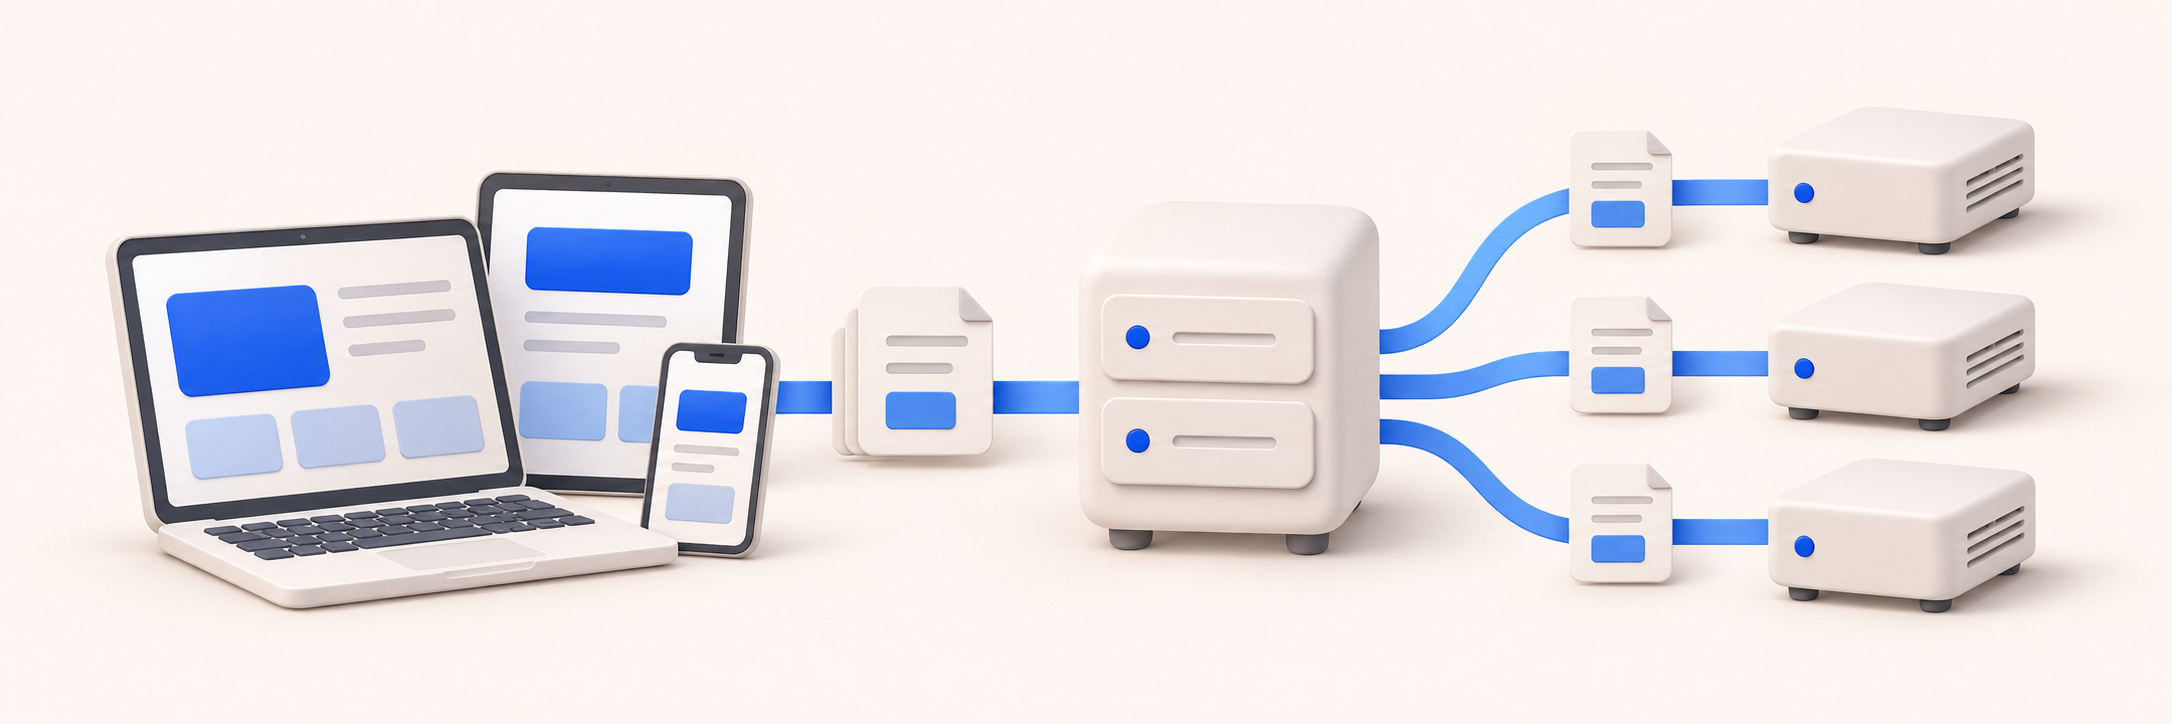
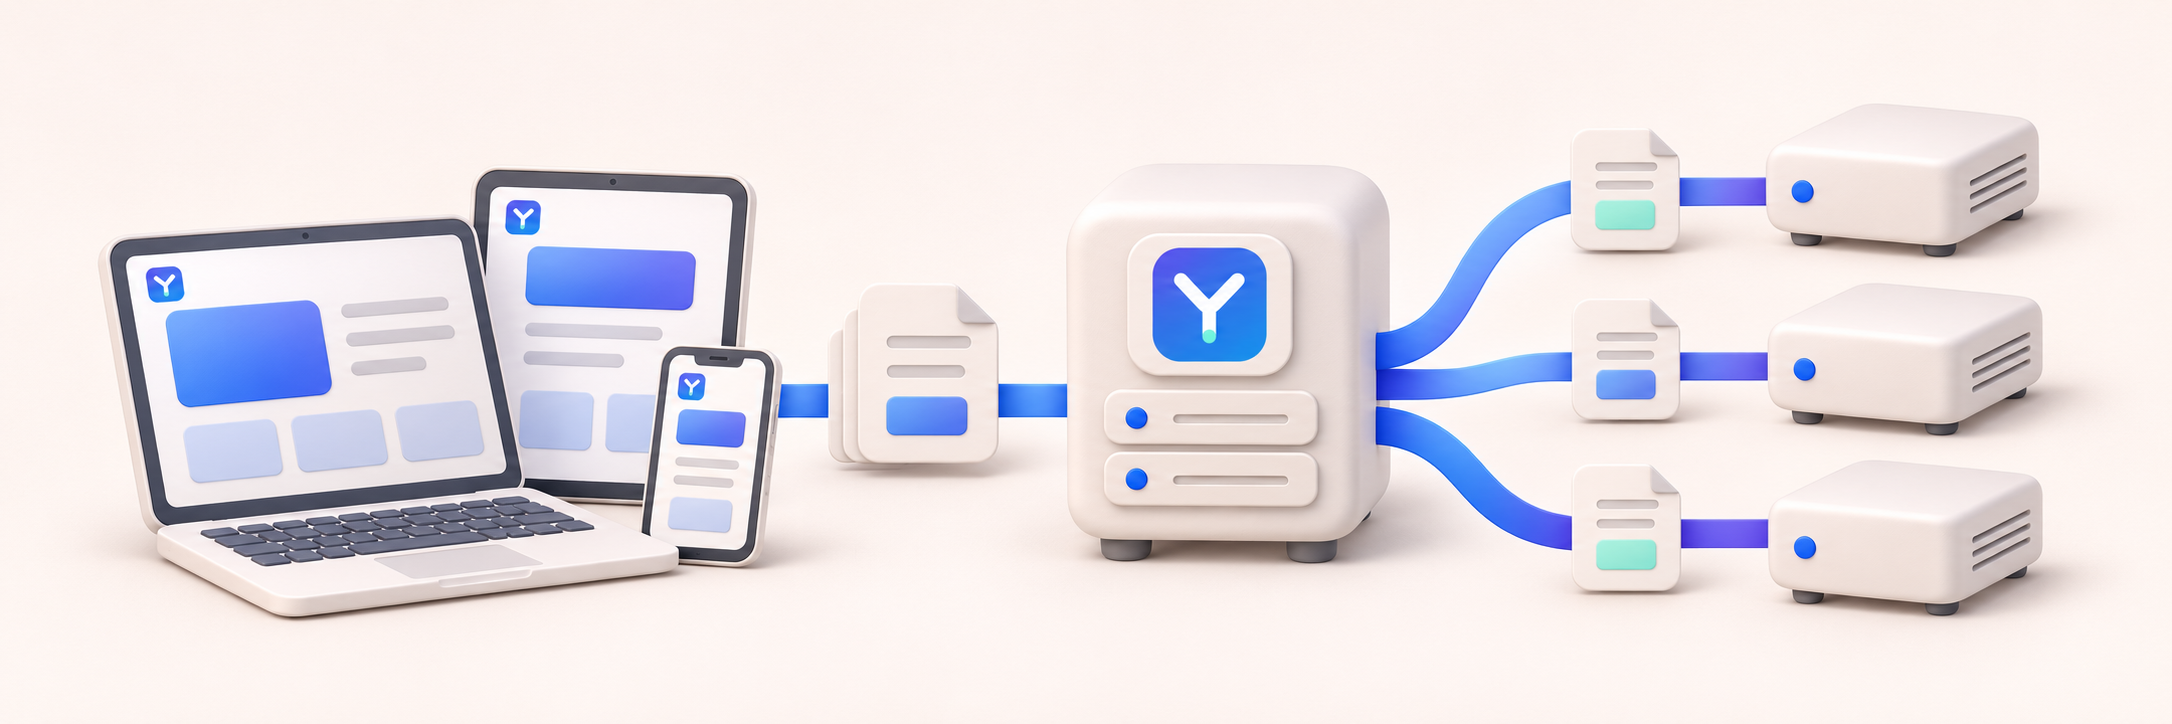
docs: refresh Yulor imagery and finish managed launcher compatibility

diff --git a/docs/diagrams/architecture.html b/docs/diagrams/architecture.html
@@ -4,7 +4,7 @@
   <meta charset="UTF-8">
   <meta name="viewport" content="width=device-width, initial-scale=1.0">
   <meta name="generator" content="archify 2.17.0-dev.1">
-  <title>LMC — Self-Hosted Agent Workspace Diagram</title>
+  <title>Yulor — Self-Hosted Agent Workspace Diagram</title>
   <script>
     // Resolve the theme before first paint so light-preference users don't
     // see a dark flash. The toolbar script below re-applies with UI state.
@@ -5081,7 +5081,7 @@ OTHER DEALINGS IN THE FONT SOFTWARE.
            data-preset-badge-blueprint="BLUEPRINT / REV 01"
            data-preset-badge-editorial="EDITORIAL / FIELD NOTE">
         <div class="pulse-dot"></div>
-        <h1>LMC — Self-Hosted Agent Workspace</h1>
+        <h1>Yulor — Self-Hosted Agent Workspace</h1>
       </div>
     </div>
 
@@ -5131,7 +5131,7 @@ OTHER DEALINGS IN THE FONT SOFTWARE.
     <div class="diagram-container" data-detail-level="read"
          data-preset-badge-editorial-plate="ARCHIFY / PLATE 04">
       <svg viewBox="0 0 1000 500" role="img" lang="en" aria-labelledby="archify-diagram-title archify-diagram-description" data-preset="classic" data-quality-profile="showcase">
-        <title id="archify-diagram-title">LMC — Self-Hosted Agent Workspace</title>
+        <title id="archify-diagram-title">Yulor — Self-Hosted Agent Workspace</title>
         <desc id="archify-diagram-description">An architecture diagram generated by Archify.</desc>
         <!-- Definitions -->
         <defs>

diff --git a/docs/images/README.md b/docs/images/README.md
@@ -1,14 +1,13 @@
 # README images
 
-- `lmc-ui-showcase.png` is a capture of the actual LMC interface with synthetic demo content. It is an illustrative interface capture, not a statement of the latest CLI/model versions.
-- `lmc-connected-workspace.png` is an AI-generated conceptual illustration created for this repository on 2026-11-12 using the built-in image generation tool. The tool did not expose a model ID. It is not a screenshot or a precise technical diagram. It contains no production data or third-party logos.
+- `yulor-ui-showcase.png` and `yulor-ui-showcase-dark.png` are browser captures of the actual Yulor `SidebarView` and `SessionView` components, taken on 2026-11-12 from web build `lmc-redesign-20260908-v422`. An isolated fixture supplies synthetic sessions, messages, device names and account details. No production account, private conversation or live agent action was used. Agent and model labels are illustrative.
+- `yulor-connected-workspace.png` is an AI-generated concept illustration refreshed on 2026-11-12 to match the Yulor mark. It is not a product screenshot or a precise technical diagram. The built-in image generation tool did not expose a model ID. The illustration contains no production data or third-party logos.
+- `lmc-ui-showcase.png` and `lmc-connected-workspace.png` are compatibility copies of the corresponding new Yulor images, so existing image links continue to work.
 
-The concept illustration was generated with this prompt:
+The concept revision used the previous panoramic illustration and the new Yulor icon as visual references. The prompt requested a warm-white paper-and-ceramic scene: browser devices on the left, a self-hosted hub in the centre and three execution machines on the right, connected by blue-to-indigo ribbons. Yulor's white Y mark and mint accents appear on the hub and screens. Screens contain abstract UI only, with no LMC or Happy branding, provider logos, watermarks or invented product text.
 
-> Use case: ads-marketing. Asset type: wide conceptual illustration for the README of LMC (Link my Cli), a self-hosted workspace for CLI agents. Create a polished editorial 3D paper-and-ceramic illustration, very wide horizontal composition about 3:1, on a warm white background with restrained vivid cobalt-blue accents inspired by LMC's existing blue interface. Show a laptop, a tablet and a phone together on the left; a small self-hosted server in the middle; three compact execution computers on the right; a few slim blue connecting ribbons and neatly organized document tiles suggest that a person's work continues across devices and multiple agent machines. Make the visual hierarchy quiet and immediately readable, with ample whitespace and precise soft shadows. This is a conceptual product illustration, not a screenshot or a technical architecture diagram. Screens show abstract blue rectangles and tiny neutral lines only, no fabricated app UI, no legible writing. Do not use robot heads, brains, people, padlocks, shields, third-party logos, provider badges, slogans, watermarks or any text. Avoid neon, dark sci-fi backgrounds, glowing networks and busy decorative detail. Keep all meaningful objects comfortably within the wide center so it works well as a GitHub README banner.
+Both READMEs provide descriptive alternative text and distinguish the interface captures from the concept illustration. The repository's MIT license applies to the new artwork.
 
-Both READMEs label the images and include descriptive alternative text. The repository's MIT license applies to the new concept illustration.
+## Editable mark
 
-## Yulor branding
-
-`brand/yulor-mark.svg` is the editable Yulor mark; `brand/render-icons.cjs` derives app, browser and desktop sizes. The existing `lmc-ui-showcase.png` is a historical, synthetic-data interface capture from before the rename; its old name is intentional. The concept illustration and its recorded original prompt remain unchanged. See [branding notes](../branding.md).
+[`brand/yulor-mark.svg`](../../brand/yulor-mark.svg) is the editable Yulor mark. `brand/render-icons.cjs` derives application, browser and desktop sizes. See the [branding and compatibility notes](../branding.md).

diff --git a/README.md b/README.md
@@ -12,9 +12,12 @@ Yulor is a self-hosted workspace for **Claude Code, Codex, and Antigravity**. St
 
 [Quick start](#quick-start) · [Why Yulor](#why-yulor) · [How it works](#how-it-works) · [Sharing & privacy](#sharing-and-privacy) · [Documentation](#documentation)
 
-![Yulor browser workspace showing sessions on several machines, live output, and queue controls](docs/images/lmc-ui-showcase.png)
+<picture>
+  <source media="(prefers-color-scheme: dark)" srcset="docs/images/yulor-ui-showcase-dark.png">
+  <img src="docs/images/yulor-ui-showcase.png" alt="Yulor workspace with sessions across three machines, a live conversation and agent handoff notes" width="1440">
+</picture>
 
-*Actual interface captured before the Yulor rename, populated with synthetic demo content. Agent and model versions shown are illustrative.*
+*Actual Yulor interface with synthetic demo content, in light and dark themes. Agent and model labels are illustrative.*
 
 <a id="why-yulor"></a>
 <a id="why-lmc"></a>
@@ -121,7 +124,7 @@ The workspace also provides a built-in web terminal, diff views, one-click Markd
 <a id="how-it-works"></a>
 ## How it works
 
-![Concept illustration of browser devices connected through a self-hosted centre to multiple execution machines](docs/images/lmc-connected-workspace.png)
+![Concept illustration of browser devices connected through a self-hosted centre to multiple execution machines](docs/images/yulor-connected-workspace.png)
 
 *AI-generated concept illustration, not a product screenshot. The diagram below describes the actual component relationships.*
 
